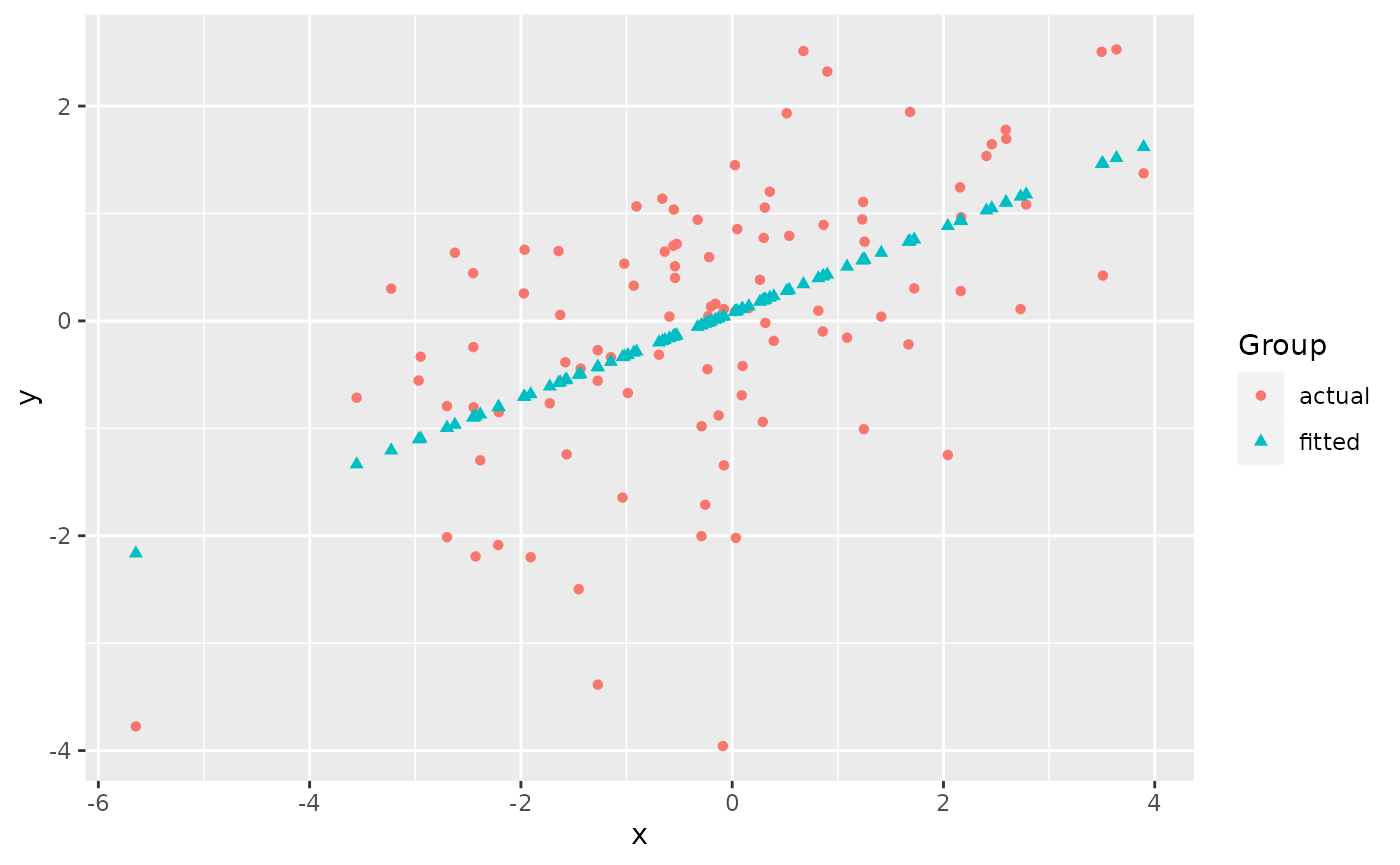
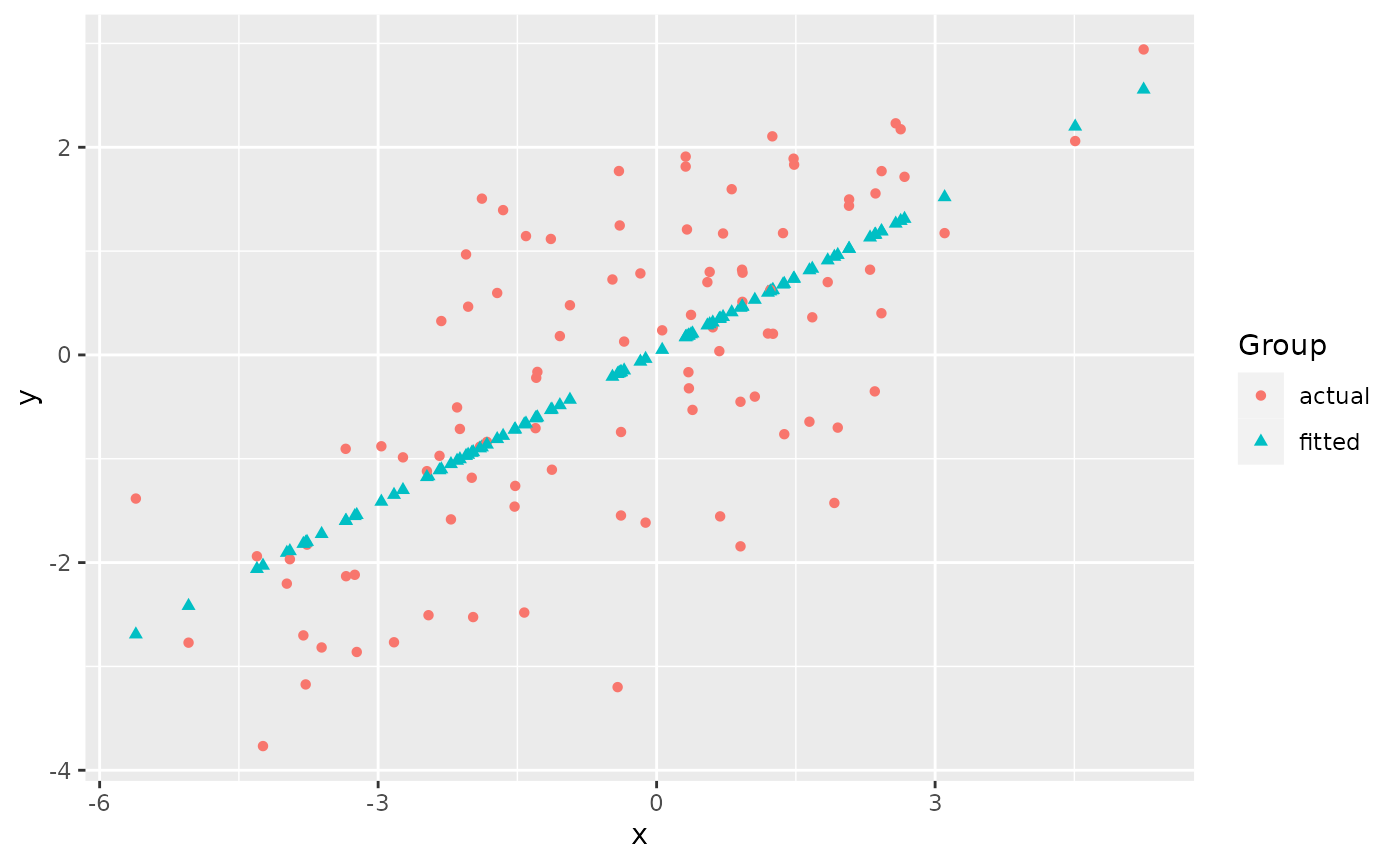
Built site for ggmatplot: 0.1.0@8378da4

diff --git a/articles/ggmatplot.html b/articles/ggmatplot.html
@@ -101,7 +101,7 @@
 <span class="va">x</span> <span class="op">&lt;-</span> <span class="fu"><a href="https://rdrr.io/r/base/c.html">c</a></span><span class="op">(</span><span class="fu"><a href="https://rdrr.io/r/stats/Normal.html">rnorm</a></span><span class="op">(</span><span class="fl">100</span>, sd <span class="op">=</span> <span class="fl">2</span><span class="op">)</span><span class="op">)</span>
 
 <span class="fu"><a href="https://rdrr.io/r/utils/head.html">head</a></span><span class="op">(</span><span class="va">x</span><span class="op">)</span>
-<span class="co">#&gt; [1]  3.89481817 -0.52514826  2.59395645  0.02699265  0.04801888 -0.54148673</span>
+<span class="co">#&gt; [1] -1.8819920  1.8432040  0.9034932 -3.6088024 -2.7324160 -3.7661831</span>
 
 <span class="co"># matrix z</span>
 <span class="va">y</span> <span class="op">&lt;-</span> <span class="va">x</span> <span class="op">*</span> <span class="fl">0.5</span> <span class="op">+</span> <span class="fu"><a href="https://rdrr.io/r/stats/Normal.html">rnorm</a></span><span class="op">(</span><span class="fl">100</span>, sd <span class="op">=</span> <span class="fl">1</span><span class="op">)</span>
@@ -110,13 +110,13 @@
            fitted <span class="op">=</span> <span class="va">fit.y</span><span class="op">)</span>
 
 <span class="fu"><a href="https://rdrr.io/r/utils/head.html">head</a></span><span class="op">(</span><span class="va">z</span><span class="op">)</span>
-<span class="co">#&gt;      actual      fitted</span>
-<span class="co">#&gt; 1 1.3737247  1.61875866</span>
-<span class="co">#&gt; 2 0.7170156 -0.13381921</span>
-<span class="co">#&gt; 3 1.6944575  1.10294899</span>
-<span class="co">#&gt; 4 0.0890590  0.08511231</span>
-<span class="co">#&gt; 5 0.8547721  0.09344950</span>
-<span class="co">#&gt; 6 0.5086281 -0.14029763</span></code></pre></div>
+<span class="co">#&gt;       actual     fitted</span>
+<span class="co">#&gt; 1  1.5052086 -0.8896353</span>
+<span class="co">#&gt; 2  0.7012387  0.9109087</span>
+<span class="co">#&gt; 3 -0.4510899  0.4567069</span>
+<span class="co">#&gt; 4 -2.8175234 -1.7242754</span>
+<span class="co">#&gt; 5 -0.9865394 -1.3006810</span>
+<span class="co">#&gt; 6 -1.8272177 -1.8003441</span></code></pre></div>
 <p><code>ggmatplot</code> plots vector <code>x</code> against each column of matrix <code>z</code> using the default <code>plot_type = "point"</code>. This will be represented on the resulting plot as two groups, identified using different shapes and colors.</p>
 <div class="sourceCode" id="cb2"><pre class="downlit sourceCode r">
 <code class="sourceCode R"><span class="kw"><a href="https://rdrr.io/r/base/library.html">library</a></span><span class="op">(</span><span class="va"><a href="https://github.com/xuan-liang/ggmatplot">ggmatplot</a></span><span class="op">)</span>
